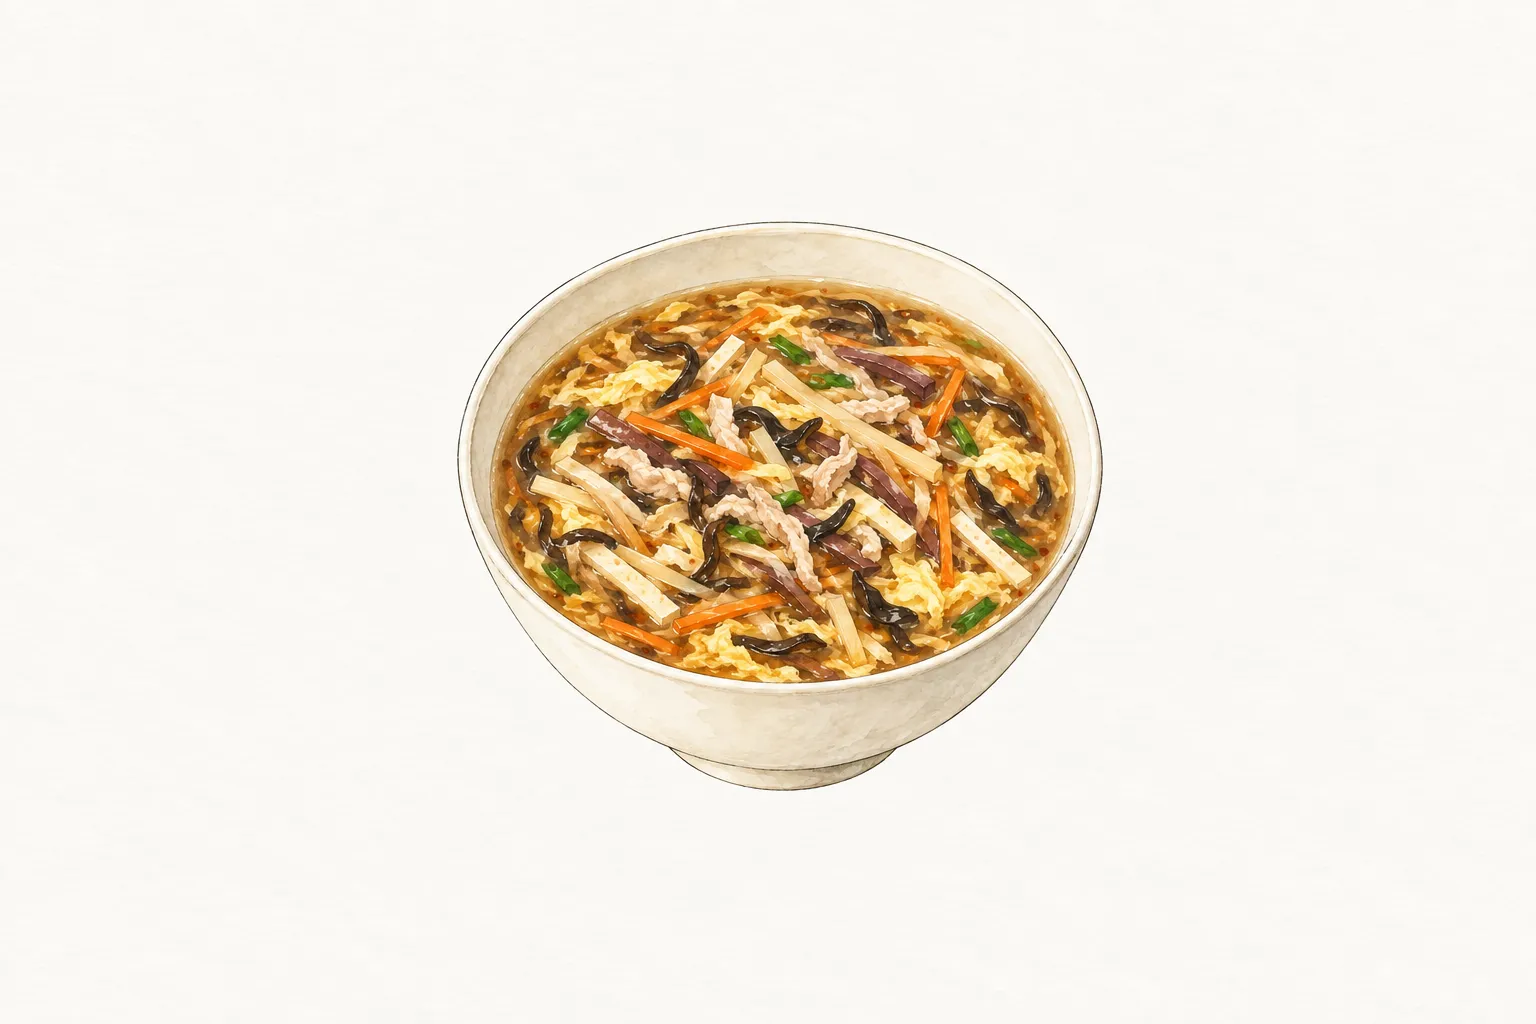
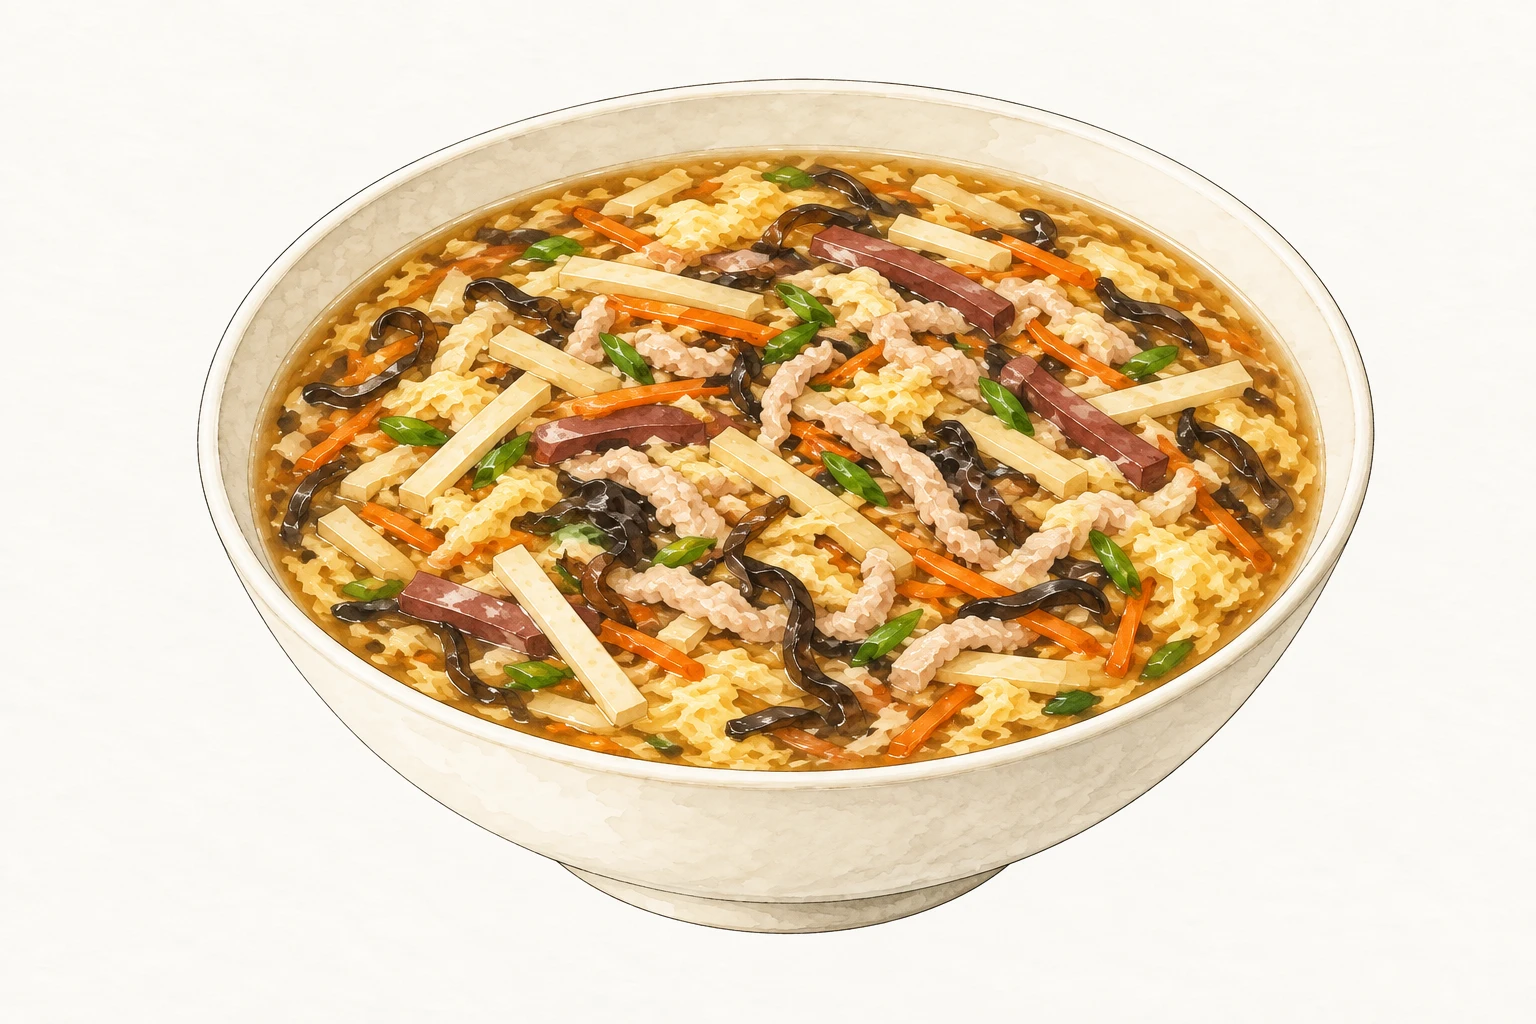
fix: enlarge hot and sour soup hero illustration

diff --git a/.scratch/hot-and-sour-soup/review-notes.md b/.scratch/hot-and-sour-soup/review-notes.md
@@ -56,3 +56,13 @@
 ### 草稿 PR 例外核准
 
 2026-10-07，向站主明確說明本地 E2E／頁面視覺 QA 的瀏覽器阻礙及「全綠才提交」規範後，站主准許先發草稿 PR，由 GitHub CI 執行指定瀏覽器驗證。站主會先審閱，確認無問題後再授權發布；目前不合入、不部署。依站主要求，不再嘗試處理這次雲端瀏覽器問題。
+
+### 成品圖第二版（2026-10-07）
+
+站主認為首版代表圖太小家子氣，改以寬口盛湯碗加大主體與湯料的視覺份量。站主已看過第二版原圖並於 05:46 UTC 回覆同意；依其先前指示，審閱確認後授權代理直接透過 PR 與既有部署流程發布。本次僅更換 hero.webp，食譜文字、材料圖、步驟圖、全站規格與設定不變。
+
+- 內建 image_gen 參考原成品圖及材料圖重製；細墨線、淡水彩、米白紙底、無餐具道具文字。主體比規格「約六成」更大，為本次站主核准的構圖調整。
+- 圖中保留肉絲、熟筍絲、紅蘿蔔絲、木耳絲、豆腐絲、鴨血絲、蛋花及蔥；原有 alt 仍符合圖像。圖片是示意，不主張實測份量。
+- 原圖與 WebP 為 1536×1024；WebP 238,390 bytes。檢查整組縮圖一致性、120×80 與 72×48 縮圖；額外 16:9 裁切仍保留碗緣。現行 CSS 維持原圖比例。
+- 從最新 main（142c33b）分支，保留其他已合入更新。Node 24.19.0、專案 pnpm 12.1.0 下，pnpm check 通過（0 errors／warnings／hints）、pnpm check:content --launch 通過、177 個單元測試全部通過。
+- 依站主既有例外核准，不重試無法啟動的雲端瀏覽器；頁面 E2E 由本次 PR 的 GitHub CI 驗證。未宣稱本地頁面視覺 QA 通過。
